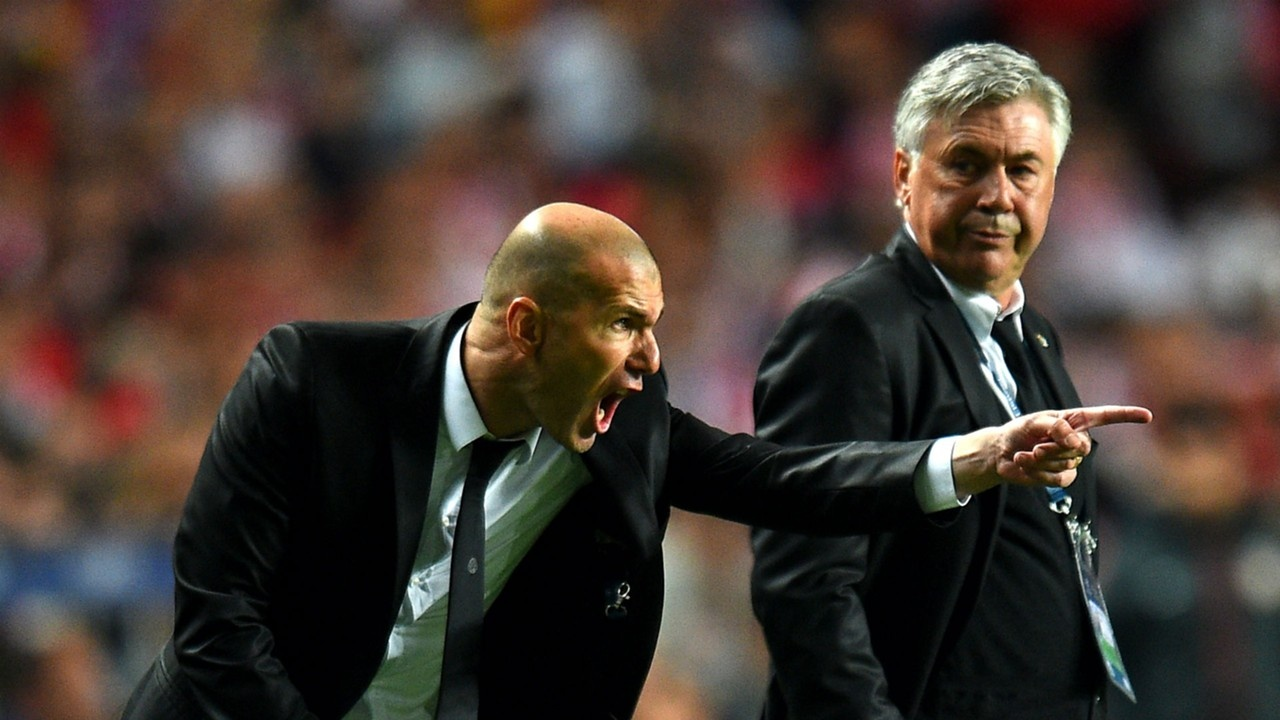
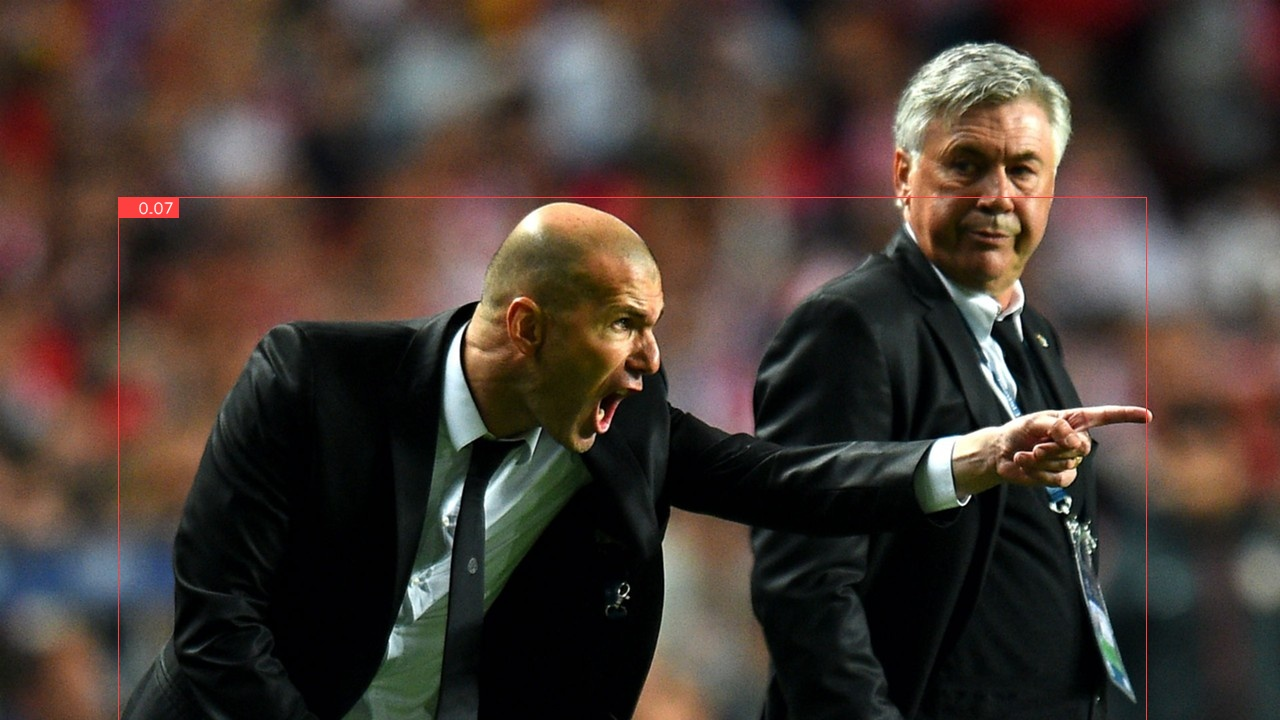
fix: update code

Changed region(s): [[0.0938, 0.275, 0.1562, 0.3056]]

diff --git a/yolo_world/models/dense_heads/yolo_world_head.py b/yolo_world/models/dense_heads/yolo_world_head.py
@@ -23,11 +23,17 @@ from mmyolo.models.dense_heads import YOLOv8HeadModule, YOLOv8Head
 from mmyolo.models.utils import gt_instances_preprocess
 from mmcv.cnn.bricks import build_norm_layer
 
-from transformers import (CLIPModel, AutoTokenizer, AutoProcessor,
+from transformers import (CLIPModel, AutoTokenizer, AutoProcessor, CLIPProcessor,
                           AutoModel, CLIPTextConfig, Blip2TextModelWithProjection)
 
 from PIL import Image
 
+device = 'cuda' if torch.cuda.is_available() else 'cpu'
+
+clip_model = CLIPModel.from_pretrained("openai/clip-vit-base-patch32")
+        # self.clip_processor = AutoProcessor.from_pretrained("openai/clip-vit-base-patch32")
+clip_processor = AutoProcessor.from_pretrained("openai/clip-vit-base-patch32")
+tokenizer = AutoTokenizer.from_pretrained('openai/clip-vit-base-patch32')
 
 @MODELS.register_module()
 class ContrastiveHead(BaseModule):
@@ -762,10 +768,6 @@ class OurYOLOWorldHead(YOLOv8Head):
     def __init__(self, world_size=-1, *args, **kwargs) -> None:
         super().__init__(*args, **kwargs)
         self.world_size = world_size
-        self.clip_model = CLIPModel.from_pretrained("openai/clip-vit-base-patch32")
-        self.clip_processor = AutoProcessor.from_pretrained("openai/clip-vit-base-patch32")
-        self.tokenizer = AutoTokenizer.from_pretrained(
-            'openai/clip-vit-base-patch32')
 
     """YOLO World v8 head."""
 
@@ -830,38 +832,86 @@ class OurYOLOWorldHead(YOLOv8Head):
         predictions = self.predict_by_feat(*outs,
                                            batch_img_metas=batch_img_metas,
                                            rescale=rescale)
-        if self.clip_model is not None and self.clip_processor is not None:
+        if clip_model is not None and clip_processor is not None:
             predictions = self._clip_filtering(predictions, batch_data_samples)
         return predictions
     
-    def _clip_filtering(self, results, batch_data_samples, post_thresh = 0.2):
+    # def _clip_filtering(self, results, batch_data_samples, context_expansion = 30, post_thresh = 0.2):
+    #     """Post-processing results using CLIP embeddings for verification."""
+    #     post_results = []
+    #     for batch_result, data_sample in zip(results, batch_data_samples):
+    #         image = Image.open(data_sample.img_path)  # PIL.Image or the actual image
+    #         keep_idx = []
+    #         for i, data in enumerate(batch_result):
+    #             bbox = data.bboxes
+    #             x1, y1, x2, y2 = map(float, bbox[0])
+    #             label = data.labels
+    #             score = data.scores
+    #             cx_min = max(0, x1 - context_expansion)
+    #             cy_min = max(0, y1 - context_expansion)
+    #             cx_max = min(image.width, x2 + context_expansion)
+    #             cy_max = min(image.height, y2 + context_expansion)
+    #             context_img = image.crop((cx_min, cy_min, cx_max, cy_max))
+    #             cropped_img = image.crop(bbox[0].cpu().numpy())
+    #             text_label = data_sample.metainfo["texts"][label[0]]
+    #             promt = [f'a photo of {text_label}', f'a photo of {text_label} in its scene']
+    #             tokenizer_inputs = self.tokenizer(
+    #                 promt, padding=True, return_tensors="pt")
+    #             processor_inputs = self.clip_processor(images=[cropped_img, context_img],
+    #                                     return_tensors="pt", padding=True).to(self.clip_model.device)
+
+    #             with torch.no_grad():
+    #                 text_feat = self.clip_model.get_text_features(**tokenizer_inputs)
+    #                 img_feat = self.clip_model.get_image_features(
+    #                     **processor_inputs)
+
+    #             text_feat = text_feat / text_feat.norm(dim=-1, keepdim=True)
+    #             img_feat = img_feat / img_feat.norm(dim=-1, keepdim=True)
+
+    #             scores = (img_feat @ text_feat.T).cpu().numpy()
+    #             print(len(scores))
+    #             best_score = scores.max()
+    #             if best_score >= post_thresh:
+    #                 # filtered_bboxes.append(data)
+    #                 keep_idx.append(i)
+
+    #         post_results.append(batch_result[keep_idx])
+
+    #     return post_results
+
+    def _clip_filtering(self, results, batch_data_samples, context_expansion=30, post_thresh=0.25):
         """Post-processing results using CLIP embeddings for verification."""
         post_results = []
         for batch_result, data_sample in zip(results, batch_data_samples):
-            image = Image.open(data_sample.img_path)  # PIL.Image or the actual image
+            # PIL.Image or the actual image
+            image = Image.open(data_sample.img_path)
             keep_idx = []
             for i, data in enumerate(batch_result):
                 bbox = data.bboxes
+                x1, y1, x2, y2 = map(float, bbox[0])
                 label = data.labels
                 score = data.scores
+                cx_min = max(0, x1 - context_expansion)
+                cy_min = max(0, y1 - context_expansion)
+                cx_max = min(image.width, x2 + context_expansion)
+                cy_max = min(image.height, y2 + context_expansion)
+                context_img = image.crop((cx_min, cy_min, cx_max, cy_max))
                 cropped_img = image.crop(bbox[0].cpu().numpy())
                 text_label = data_sample.metainfo["texts"][label[0]]
+                # print(text_label)
+                prompt = [f'a photo of {text_label}']
+                processor_inputs = clip_processor(text=prompt, images=[cropped_img, context_img],
+                                                       return_tensors="pt", padding=True).to(clip_model.device)
 
-                tokenizer_inputs = self.tokenizer(
-                    text_label, padding=True, return_tensors="pt")
-                processor_inputs = self.clip_processor(images=cropped_img,
-                                        return_tensors="pt", padding=True).to(self.clip_model.device)
+                outputs = clip_model(**processor_inputs)
 
-                with torch.no_grad():
-                    text_feat = self.clip_model.get_text_features(**tokenizer_inputs)
-                    img_feat = self.clip_model.get_image_features(
-                        **processor_inputs)
+                logits_per_text = outputs.logits_per_text # this is the text-image similarity score
+                # we can take the softmax to get the label probabilities
+                probs = logits_per_text.softmax(dim=1)
 
-                text_feat = text_feat / text_feat.norm(dim=-1, keepdim=True)
-                img_feat = img_feat / img_feat.norm(dim=-1, keepdim=True)
-
-                sim_score = (img_feat * text_feat).sum()
-                if sim_score.item() >= post_thresh:
+                # print(probs)
+                best_score = probs.max()
+                if best_score >= post_thresh:
                     # filtered_bboxes.append(data)
                     keep_idx.append(i)
 

diff --git a/configs/our_pretrain/yolo_world_v2_x_vlpan_bn_2e-3_100e_4x8gpus_obj365v1_goldg_train_lvis_minival.py b/configs/our_pretrain/yolo_world_v2_x_vlpan_bn_2e-3_100e_4x8gpus_obj365v1_goldg_train_lvis_minival.py
@@ -121,7 +121,9 @@ coco_val_dataset = dict(
     _delete_=True,
     type='MultiModalDataset',
     dataset=dict(type='YOLOv5LVISV1Dataset',
-                 data_root='/mydrive/data/coco/',
+                #  data_root='data/coco/',
+                 data_root='/kaggle/input/data-coco/data/coco/',
+                #  data_root='/mydrive/data/coco/',
                  test_mode=True,
                  ann_file='lvis/lvis_v1_minival_inserted_image_name.json',
                  data_prefix=dict(img=''),
@@ -132,7 +134,9 @@ val_dataloader = dict(dataset=coco_val_dataset)
 test_dataloader = val_dataloader
 
 val_evaluator = dict(type='mmdet.LVISMetric',
-                     ann_file='/mydrive/data/coco/lvis/lvis_v1_minival_inserted_image_name.json',
+                    #  ann_file='data/coco/lvis/lvis_v1_minival_inserted_image_name.json',
+                     ann_file='/kaggle/input/data-coco/data/coco/lvis/lvis_v1_minival_inserted_image_name.json',
+                    #  ann_file='/mydrive/data/coco/lvis/lvis_v1_minival_inserted_image_name.json',
                      metric='bbox')
 test_evaluator = val_evaluator
 
